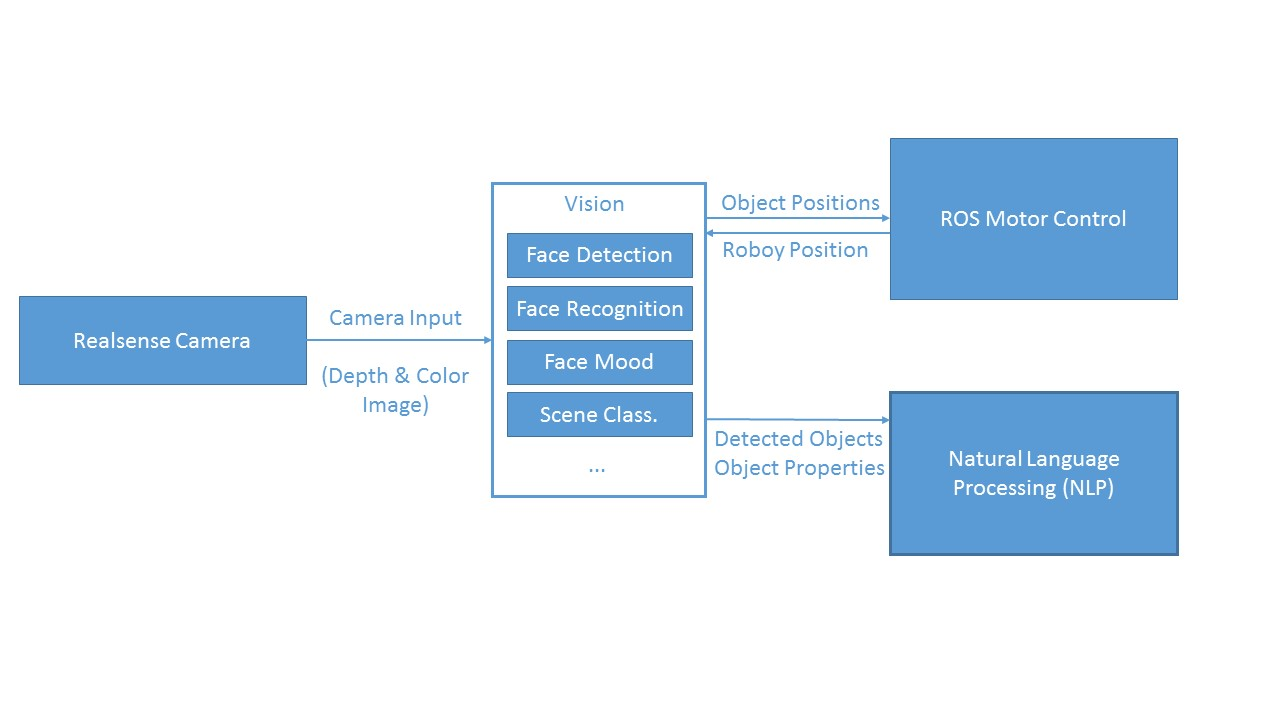
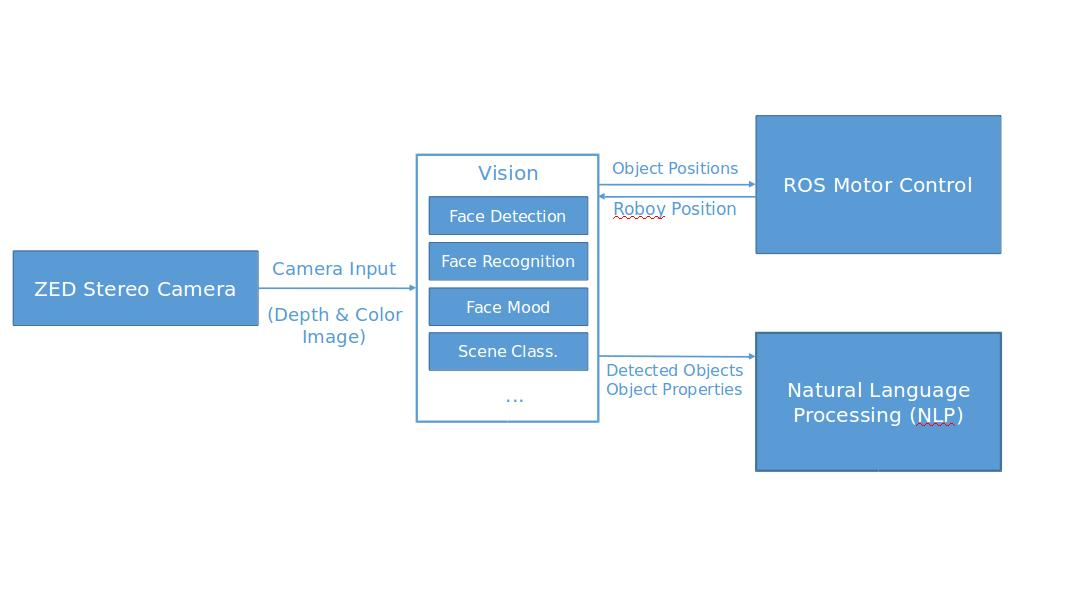
Updated docs on installation and current approach

diff --git a/docs/development/01_solution_strategy.rst b/docs/development/01_solution_strategy.rst
@@ -7,16 +7,20 @@ Basic decisions for Vision Package:
 - Highest priority on face detection and face pose estimation. Recognition of people as second priority. All other properties concerning people with lower priority and general object detection with least importance.
 - Face detection using this approach: `Joint Face Detection and Alignment using MTCNNs <https://kpzhang93.github.io/MTCNN_face_detection_alignment/paper/spl.pdf>`_. Good real time performance, other modules to be built on top.
 - Face embeddings using `FaceNet <https://arxiv.org/pdf/1503.03832.pdf>`_. These embeddings can be used for recognition.
+- Speaker detection using facial landmarks from `DLIB <http://www.pyimagesearch.com/2017/04/03/facial-landmarks-dlib-opencv-python/>`_
+- Ojbect recognition using `YOLO <https://pjreddie.com/media/files/papers/yolo.pdf>`_
 
 
 Current implementation:
 
-- **Face detection** running in realtime with function to query whether a face is nearby (to be called as ROS service).
-- **Face recognition** implemented as extra thread (to be called as ROS service on a given face). Using Facenet for calculating embeddings for a given face and SVM for classification. SVM currently trained on pictures of LFW (labelled Faces in the Wild) dataset, using Roboy Team members as next step.
-- **ROS services** currently not implemented in devel branch. Only workaround in dirty_final_hack branch.
-- **Tracking objects/faces** running in realtime. This implementation is based on the MIL(Visual Tracking with Online Multiple Instance Learning). Also part of the Opencv_contrib module. 
+- **RoboyVision** as main, handling all sub-modules: 
+	- **Face Detection** using Facenet for calculating embeddings for a given face and SVM for classification. SVM currently trained on pictures of 	LFW (labelled Faces in the Wild) dataset, using Roboy Team members as next step. Sends coordinates to **Tracker** and facial landmarks to 		**Speaker Detection**
+	- **Speaker Detection** using DLIB's facial landmarks to caluclate specific mouth parameters (width, lip distance) of each face to determine, 		whether a person is speaking
+	- **ROS services** are handled by RoboyVision via websocket
+	- **Object recognition** is implemented based on YOLO	
+	- **Tracking objects/faces** running in realtime. This implementation is based on the MIL(Visual Tracking with Online Multiple Instance 		Learning). Also part of the Opencv_contrib module. 
  
-Plan for coming semester with priorities in red (5 being highest priority):
+Plan for this semester with priorities in red (5 being highest priority):
 
 .. _plan_for_semester:
 .. figure:: images/Plan.*

diff --git a/docs/development/09_Libraries.rst b/docs/development/09_Libraries.rst
@@ -4,9 +4,9 @@ Libraries and external Software
 .. csv-table::
   :header: "Name", "URL/Author", "License", Description
   
-  "Intel Realsense Library", "https://github.com/IntelRealSense/librealsense", "Apache-2.0", "Cross-platform camera capture for Intel® RealSense™ F200, SR300 and R200"
-  "PyRealSense", "https://github.com/toinsson/pyrealsense", "Apache-2.0", "Simple ctypes extension to the librealsense library for Linux and Mac OS to work with Python."
+
   "MTCNN face detection & alignment", "https://github.com/kpzhang93/MTCNN_face_detection_alignment", "MIT license", "Joint Face Detection and Alignment using Multi-task Cascaded Convolutional Neural Networks"
   "Facenet", "https://github.com/davidsandberg/facenet", "MIT License", "Face recognition using Tensorflow"
   "arc42", "http://www.arc42.de/template/", "Creative Commens Attribution license.", "Template for documenting and developing software"
-
+  "DLIB", "https://github.com/davisking/dlib", "Boost Software License", "ML toolkit, mainly used for face detection and facial landmarks"
+  "YOLO", "https://github.com/pjreddie/darknet/wiki/YOLO:-Real-Time-Object-Detection", "", "Real-time object recognition system"

diff --git a/docs/development/00_system_scope_and_context.rst b/docs/development/00_system_scope_and_context.rst
@@ -1,7 +1,7 @@
 Context
 --------
 
-The Vision package receives realsense camera input which is then processed internally. Other than that it should also receive data from Roboy motor control about roboy's current position. This can be used to calculate the relative and absolute positions of detected objects.
+The Vision package receives ZED stereo camera input which is then processed internally. Other than that it should also receive data from Roboy motor control about roboy's current position. This can be used to calculate the relative and absolute positions of detected objects.
 
 The main output of the Vision Module will be detected objects and some object properties (e.g. detected face, name of person, mood, gender, ...). The receiver for this will be Natural language processing. This is illustrated in the following contect overview:
 

diff --git a/docs/index.rst b/docs/index.rst
@@ -36,6 +36,9 @@ The papers currently used for implementation should be understood:
 
 - `Joint Face Detection and Alignment using Multi-task Cascaded Convolutional Networks <https://kpzhang93.github.io/MTCNN_face_detection_alignment/paper/spl.pdf>`_
 - `FaceNet: A Unified Embedding for Face Recognition and Clustering <https://arxiv.org/pdf/1503.03832.pdf>`_
+- `DLIB: Facial landmarks and face recognition <http://www.pyimagesearch.com/2017/04/03/facial-landmarks-dlib-opencv-python/>`_
+- 'You Only Look Once: Unified, Real-Time Object Detection <https://pjreddie.com/media/files/papers/yolo.pdf>`_
+
 
 Furthermore there are plans to extend the implementation using this paper:
 

diff --git a/docs/usage/0_installation.rst b/docs/usage/0_installation.rst
@@ -41,17 +41,11 @@ Now you should be working in your virtual environment. We then will install all 
 
 - Install OpenCV::
 
-    conda install -c menpo opencv3=3.1.0
+    conda install -c menpo opencv3=3.2.0
 
 - Install Tensorflow::
 
     conda install -c conda-forge tensorflow=1.0.0
-
-- Install librealsense according to tutorial on https://github.com/IntelRealSense/librealsense/blob/master/doc/installation.md (this currently requires a Linux Kernel of maximum 4.4.x)
-
-- Install pyrealsense::
-
-    pip install pyrealsense
 
 - For running the tutorials DLib and jupyter notebook will also be required::
     

diff --git a/docs/development/07_architecture_constraints.rst b/docs/development/07_architecture_constraints.rst
@@ -7,9 +7,6 @@ Hardware Constraints
   :header: "Constraint Name", "Description"
   :widths: 20, 60
 
-  "Intel RealSense", "Provides additional depth information to be used for pose estimation"
-  
-  
 
 Operating System Constraints 
 
@@ -17,9 +14,6 @@ Operating System Constraints
   :header: "Constraint Name", "Description"
   :widths: 20, 60
 
-  "Ubuntu 16.04 Kernel 4.4", "Inteal Realsense librealsesne library not supported on newer Linux Kernels"
-
-  
   
 Programming Constraints
 
